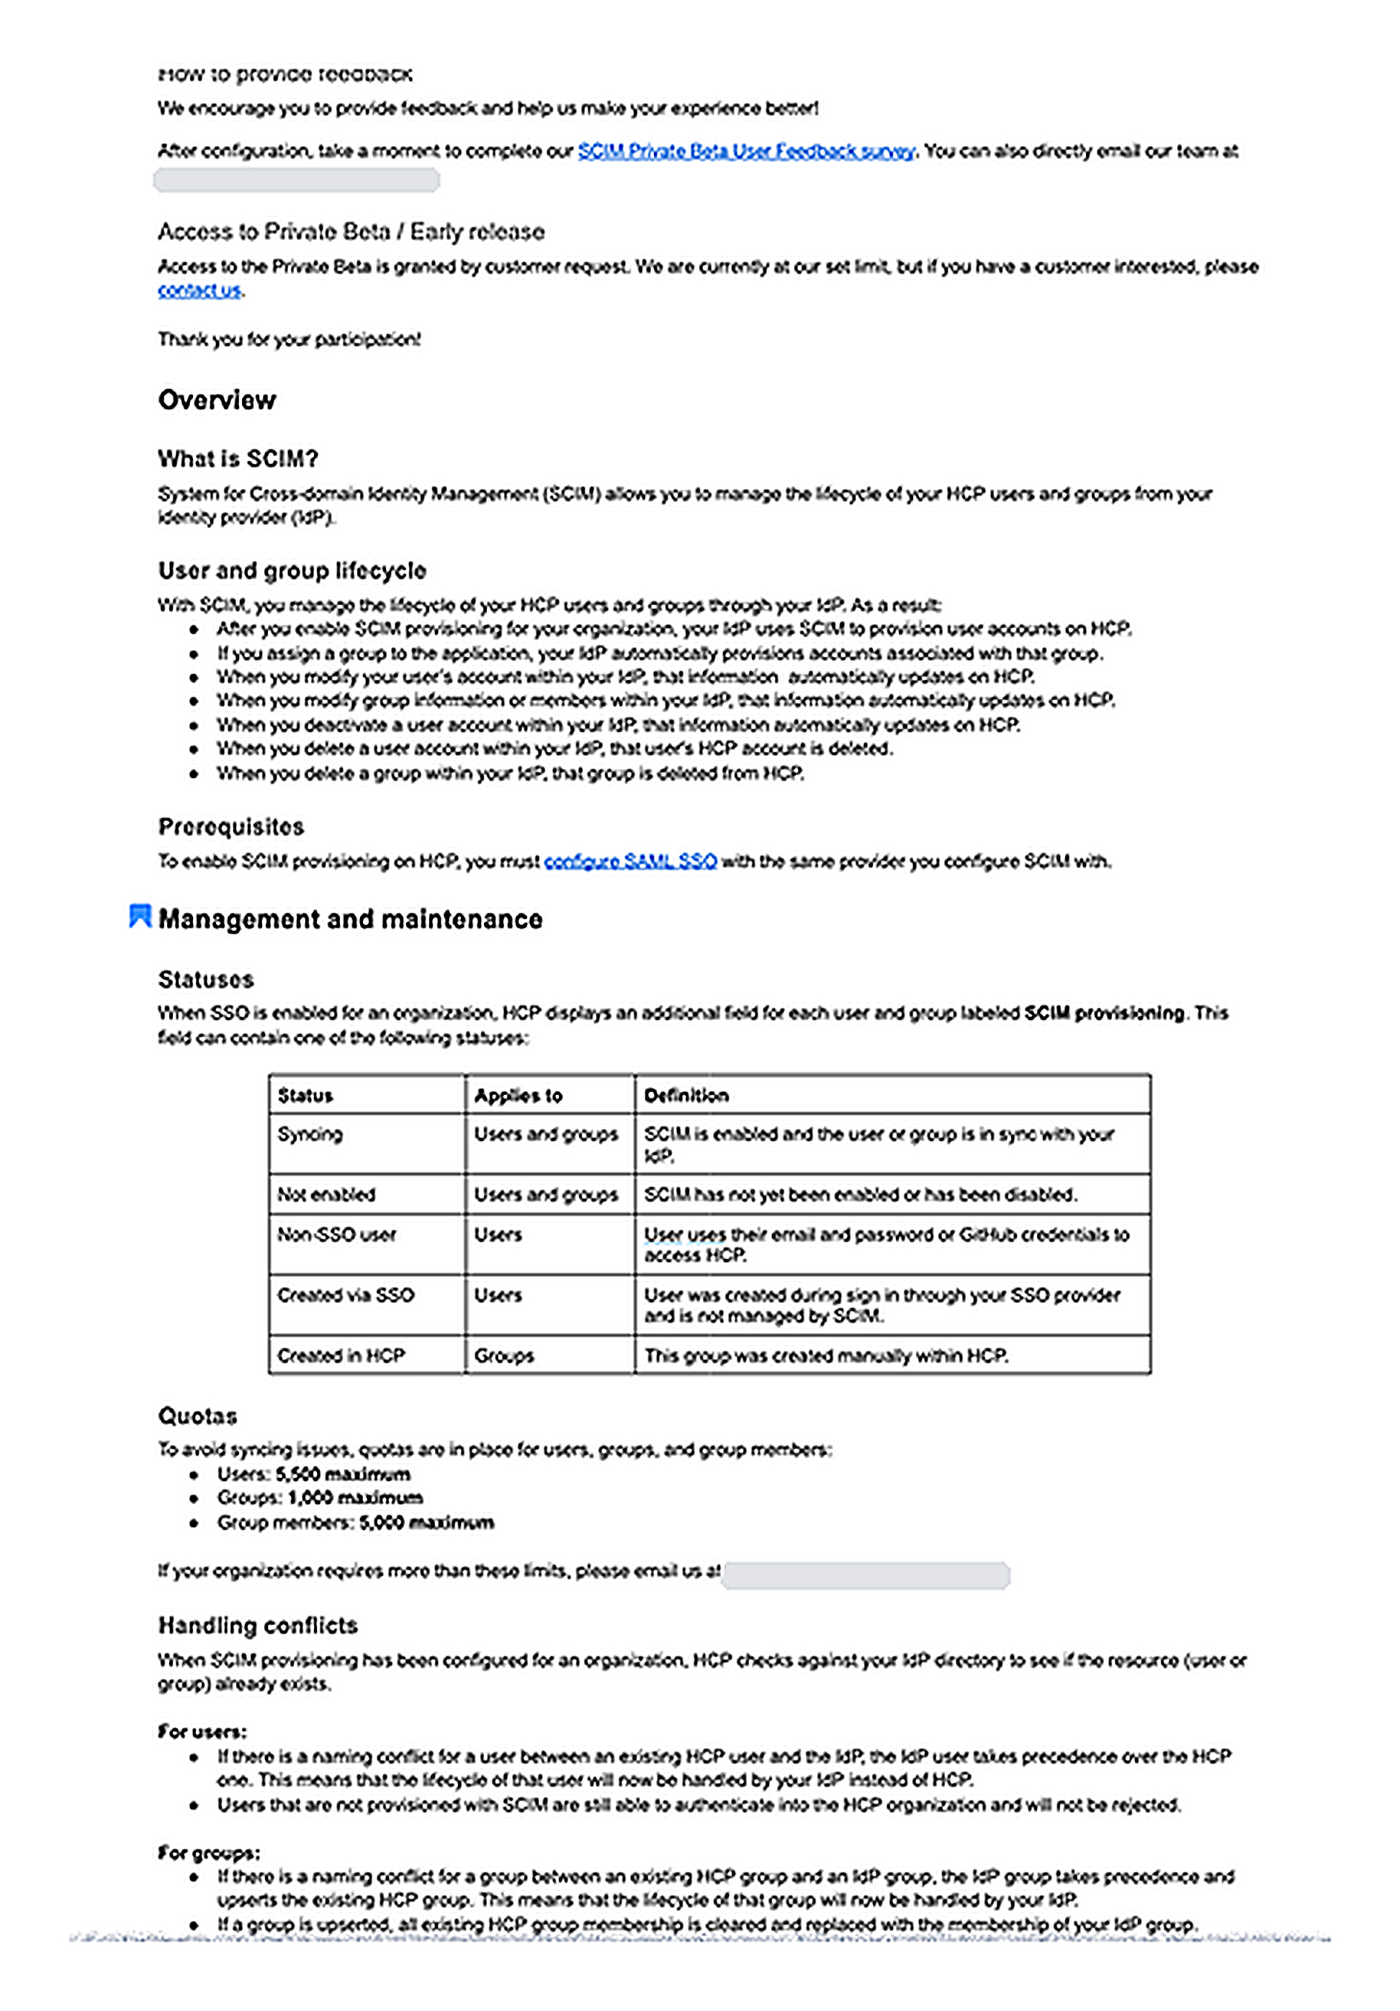
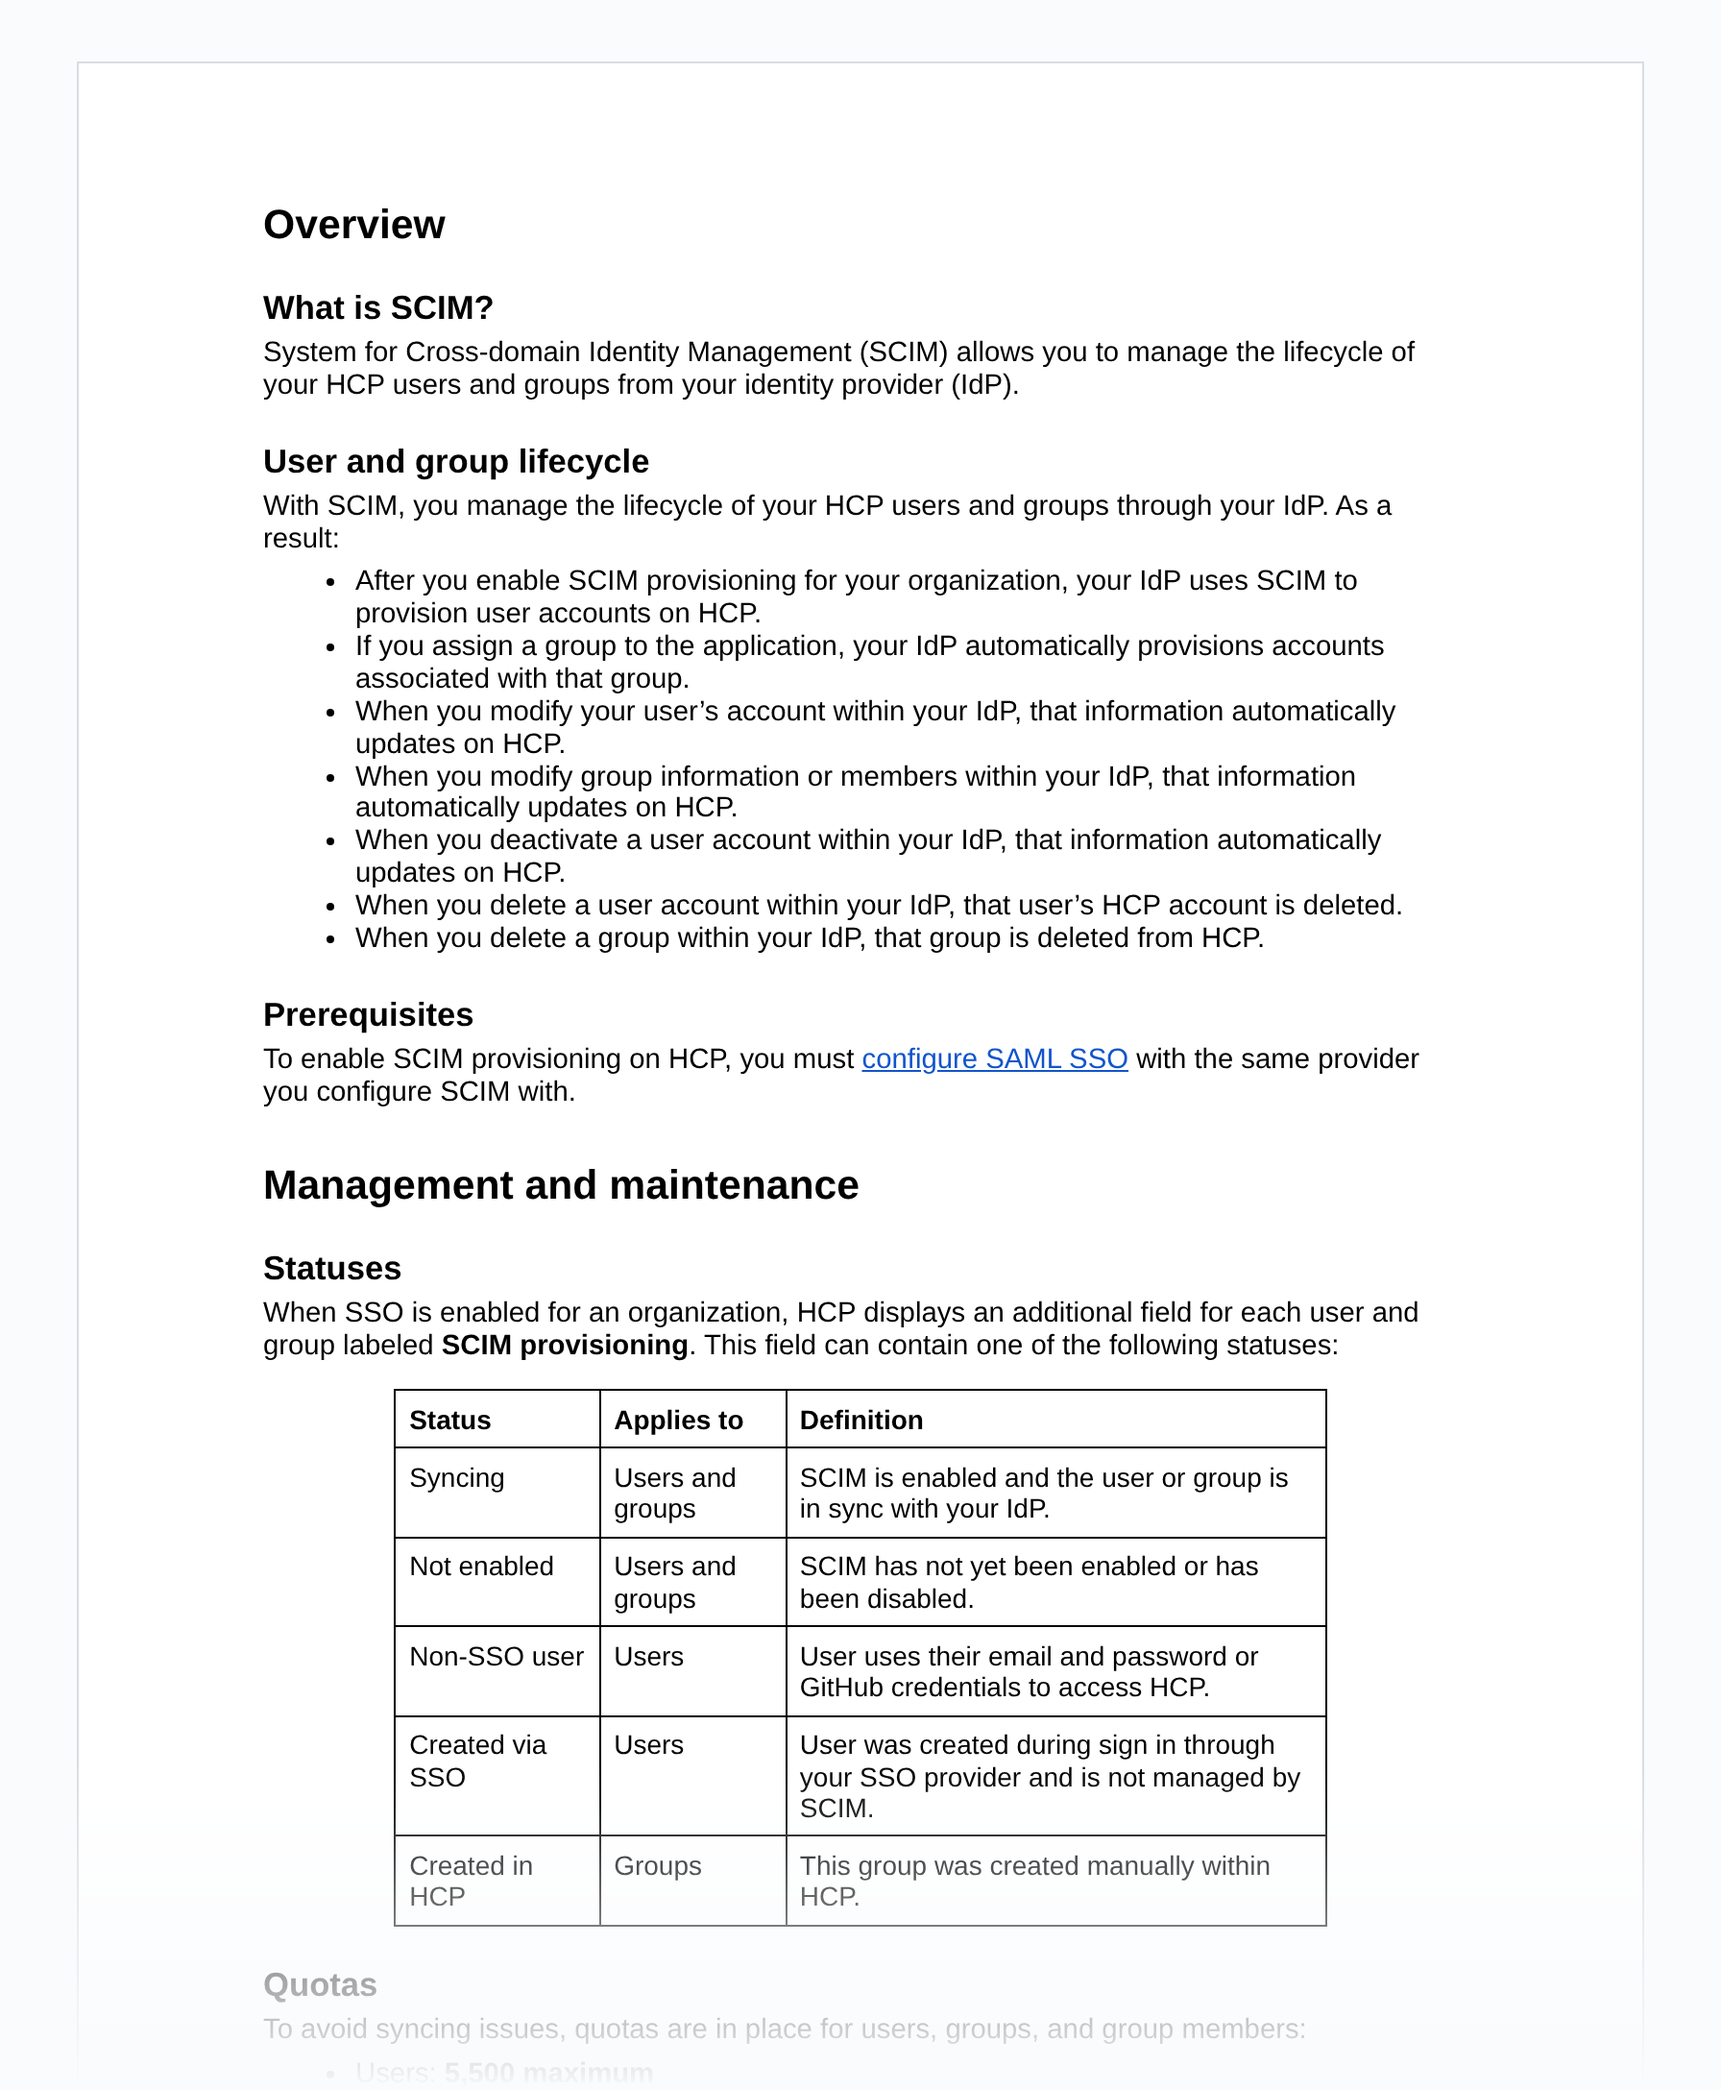
Use recreated SCIM user guide page with fade in the documentation section
Claude-Session: https://claude.ai/code/session_01SiBywFdr5FzyC63ezhtKAx

Changed region(s): [[0.0926, 0.031, 0.8951, 0.9933]]

diff --git a/src/lib/projects.ts b/src/lib/projects.ts
@@ -37,7 +37,7 @@ const accessStory: StorySection[] = [
   { eyebrow: 'ideation - Round 1', heading: 'First, make setup quick and predictable', stackImages: true, body: ['Because admins set up SCIM right after SSO, I put the entry point exactly there, instead of making them hunt for it in settings. Setup itself became one clear moment: copy a base URL, generate a one-time token, paste both into your identity provider.'], bullets: ['We should offer an entry point to configuring SCIM directly post configuring SSO ', 'Clear base URL + one-time token'], images: [{ src: scimSso, alt: 'HCP single sign-on details page with an Enable SCIM provisioning card', caption: 'After: SCIM offered right where SSO ends', w: 2880, h: 1920 }, { src: scimToken, alt: 'Generate SCIM token dialog showing a one-time sample token', caption: 'Clear base URL + one-time token', w: 2880, h: 1920 }] },
   { eyebrow: 'The twist', heading: 'Setup was solved, trust wasn’t', body: ['Round 1 got admins through setup, but feedback exposed a bigger gap: once SCIM was on, they had no way to see what the system was doing. With 5,000 users and 500 groups syncing, “did it work?” is the question that matters most.', 'Admins didn’t just need to enable SCIM efficiently; they needed to trust that our system would handle it properly.'], highlight: 'After rounds of internal feedback with PMs, engineers and other designers, we concluded our next phase should focus on scalability post SCIM configuration.' },
   { eyebrow: 'Ideation - Round 2', heading: 'Designing for trust after enablement', body: ['I made provisioning status visible everywhere admins already look, on every user and group, with a defined set of states so nothing is ambiguous. And because customers turn SCIM off to troubleshoot, disabling it had to be safe and explain exactly what would happen before anyone clicked.'], concepts: [{ title: 'Clear system status + sync visibility for users and groups', images: [{ src: scimStatusReference.url, alt: 'SCIM provisioning column reference with user and group status definitions', caption: 'User and group provisioning states', w: 920, h: 2282, narrow: true }] }, { title: 'After: disabling is non-destructive and says exactly what happens to your users, so admins can troubleshoot without fear.', images: [{ src: scimDisable.url, alt: 'Disable SCIM provisioning confirmation dialog explaining what will happen', caption: 'Safe, well-explained disablement behavior', w: 2880, h: 1920 }] }] },
-  { eyebrow: 'Beyond the UI', heading: 'This wasn’t just about a functioning UI…', body: ['For a feature this technical, trust also comes from knowing what to expect. Customers needed clear documentation on the results and impact of enabling SCIM to have a seamless beta onboarding.', 'Alongside my product manager, I led the work with our education team to create a thorough SCIM Provisioning User Guide.'], images: [{ src: scimGuide.url, alt: 'SCIM Provisioning User Guide document', caption: 'The SCIM Provisioning User Guide', w: 1458, h: 2094, narrow: true }] },
+  { eyebrow: 'Beyond the UI', heading: 'This wasn’t just about a functioning UI…', body: ['For a feature this technical, trust also comes from knowing what to expect. Customers needed clear documentation on the results and impact of enabling SCIM to have a seamless beta onboarding.', 'Alongside my product manager, I led the work with our education team to create a thorough SCIM Provisioning User Guide.'], images: [{ src: scimGuide.url, alt: 'SCIM Provisioning User Guide document', caption: 'The SCIM Provisioning User Guide', w: 1792, h: 2176 }] },
   { eyebrow: 'Impact', heading: 'What it meant for our customers', body: ['SCIM turned identity from a blocker into something enterprise admins could set up once and rely on.'], bullets: ['Removed a key enterprise adoption blocker', 'Enabled 5+ of our largest customers to onboard to the beta', 'Unlocked millions in retained and expanded revenue'] },
   { eyebrow: 'Reflection', heading: 'What I’m taking with me', bullets: ['Trust matters more than anything in a system at scale', 'This is highly technical: your engineers are your friends! Talk to them early and often', 'Your typical dev team is evolving! Be willing to jump in when needed'] },
 ];
